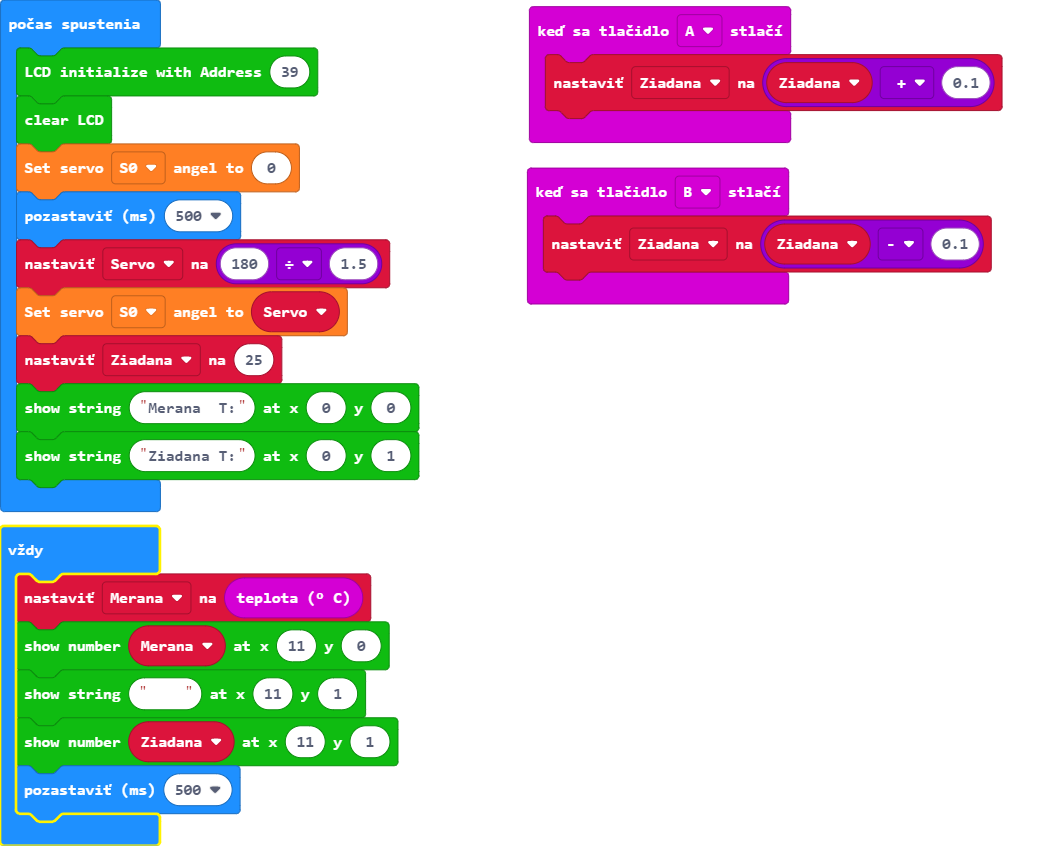
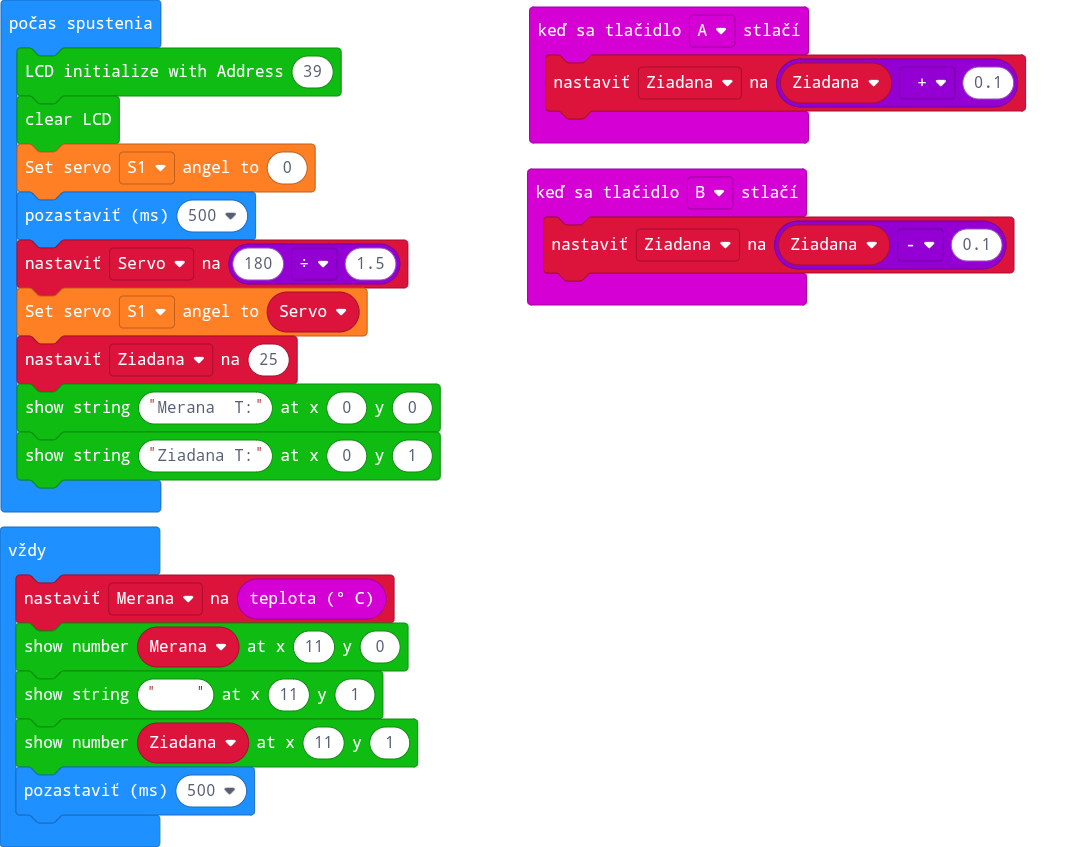
Update main.blocks, main.ts

Changed region(s): [[0.0, 0.0, 0.425, 1.0], [0.4858, 0.0, 0.9715, 0.3688]]

diff --git a/main.ts b/main.ts
@@ -8,10 +8,10 @@ let Merana = 0
 let Ziadana = 0
 I2C_LCD1602.LcdInit(39)
 I2C_LCD1602.clear()
-wuKong.setServoAngel(wuKong.ServoList.S0, 0)
+wuKong.setServoAngel(wuKong.ServoList.S1, 0)
 basic.pause(500)
 let Servo = 180 / 1.5
-wuKong.setServoAngel(wuKong.ServoList.S0, Servo)
+wuKong.setServoAngel(wuKong.ServoList.S1, Servo)
 Ziadana = 25
 I2C_LCD1602.ShowString("Merana  T:", 0, 0)
 I2C_LCD1602.ShowString("Ziadana T:", 0, 1)
